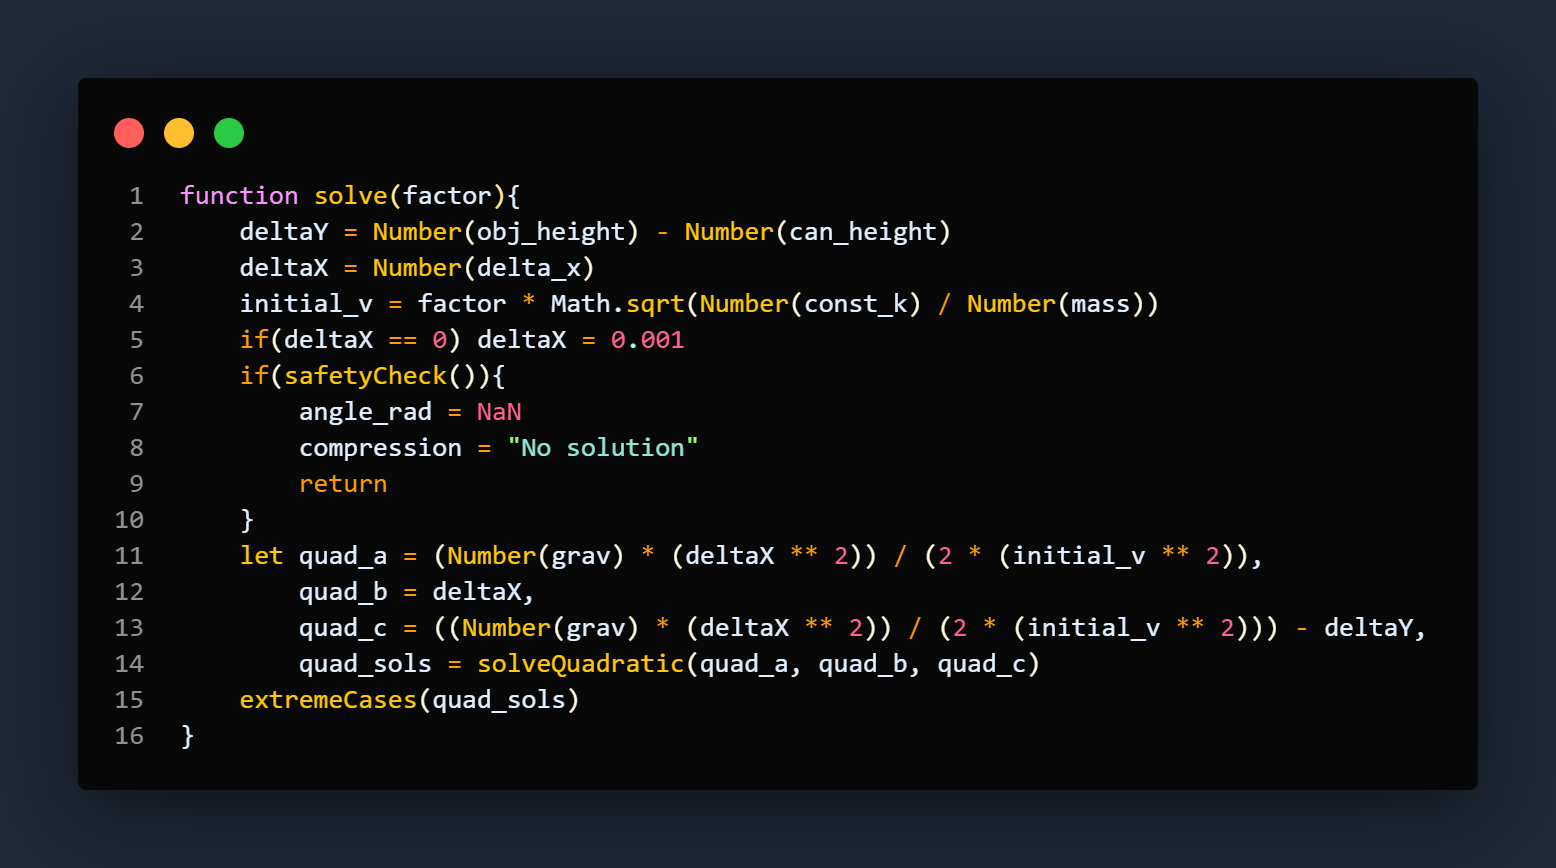
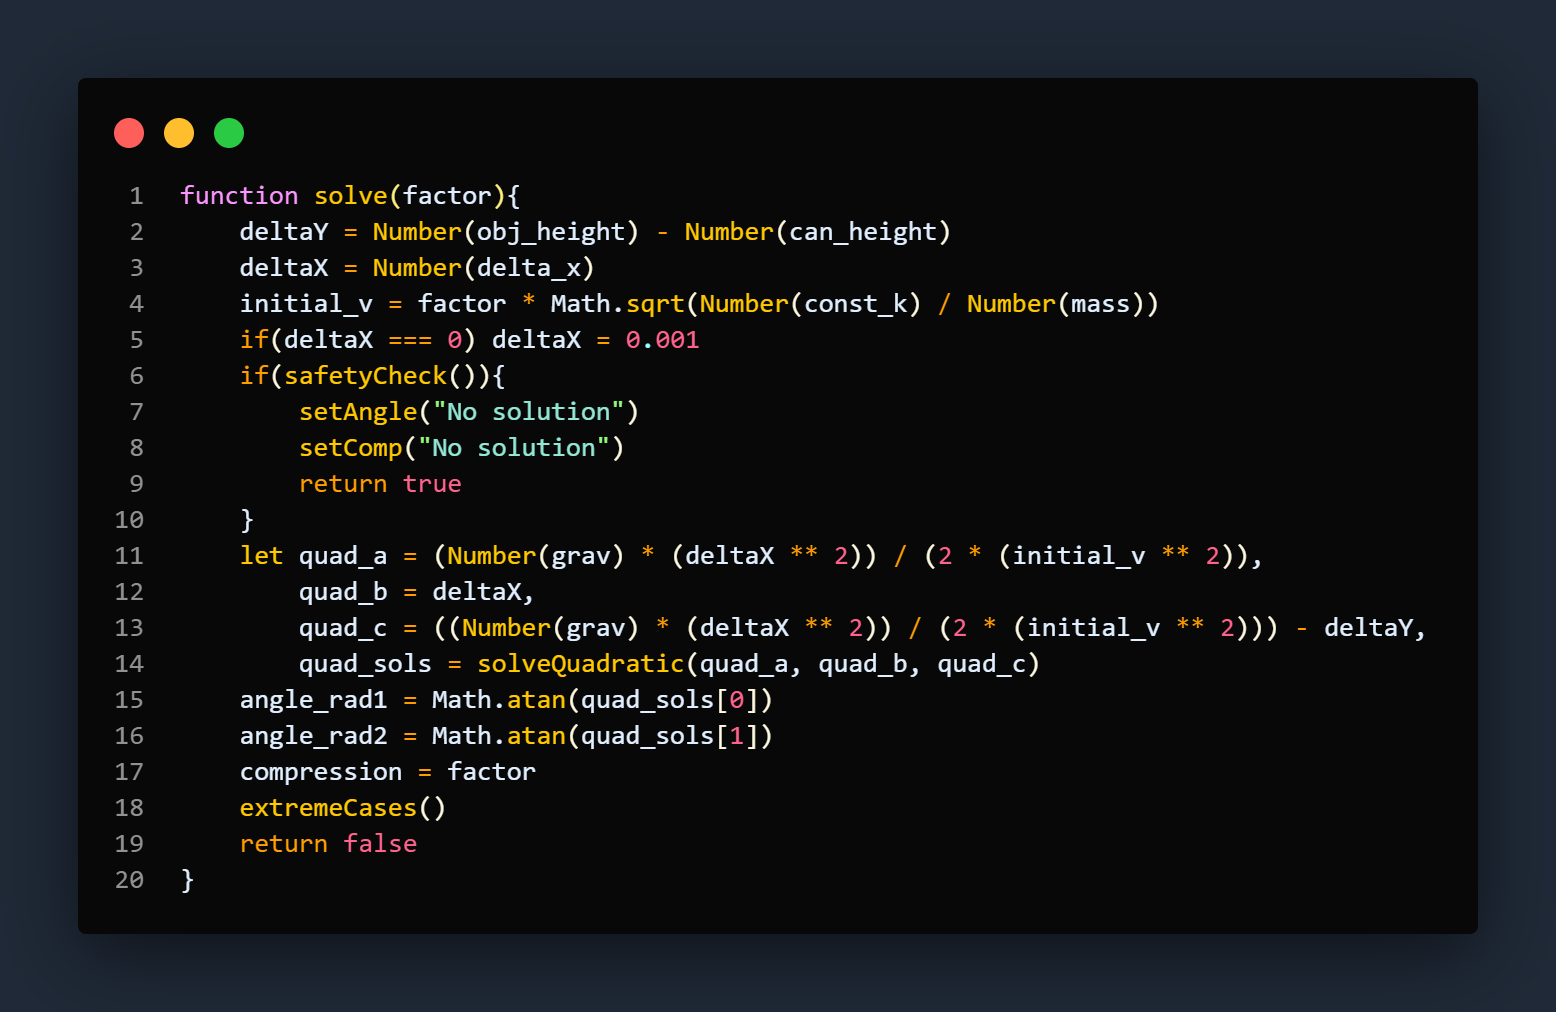
waa

diff --git a/src/pages/Calculator.jsx b/src/pages/Calculator.jsx
@@ -25,7 +25,7 @@ const Calculator = () => {
     const [trajectory, setTrajectory] = useState([])
     const [max_range, setMax_range] = useState([])
     const Form = useRef(null)
-    let deltaY, deltaX, initial_v, angle_rad, compression = "100"
+    let deltaY, deltaX, initial_v, angle_rad0, angle_rad1, angle_rad2, compression = 1
 
     function solveQuadratic(a, b, c){
         let disc = (b ** 2) - (4 * a * c)
@@ -34,7 +34,7 @@ const Calculator = () => {
     }
 
     function calcTrajectory(x, type){
-        if(type === 0) return (x * Math.tan(angle_rad) + (Number(grav) * (x ** 2)) / (2 * (initial_v ** 2) * (Math.cos(angle_rad) ** 2)))
+        if(type === 0) return (x * Math.tan(angle_rad0) + (Number(grav) * (x ** 2)) / (2 * (initial_v ** 2) * (Math.cos(angle_rad0) ** 2)))
         else return (Number(grav) * (x ** 2)) / (2 * (initial_v ** 2)) + ((initial_v ** 2) / (-2 * Number(grav)))
     }
 
@@ -45,33 +45,24 @@ const Calculator = () => {
         return false
     }
 
-    function obstacleCheck(){
-        let traj_y = (Number(obs_x) * Math.tan(angle_rad) + (Number(grav) * (Number(obs_x) ** 2)) / (2 * (initial_v ** 2) * (Math.cos(angle_rad) ** 2))),
-            real_h = Number(obs_y) - Number(can_height),
-            diff = Math.abs(traj_y - real_h)
-        setError(diff.toFixed(2))
-        if(diff >= 0.5) return false
-        setError(diff.toFixed(2) + " *")
-        return true
+    function obstacleDelta(angle){
+        let traj_y = (Number(obs_x) * Math.tan(angle) + (Number(grav) * (Number(obs_x) ** 2)) / (2 * (initial_v ** 2) * (Math.cos(angle) ** 2))),
+            real_h = Number(obs_y) - Number(can_height)
+        return Math.abs(traj_y - real_h)
     }
 
-    function extremeCases(quad_sols){
-        if(quad_sols[0] < 0){
-            angle_rad = Math.atan(quad_sols[1])
-            if(obstacleCheck()){
-                solve(0.9)
-                compression = "90"
-            }
+    function extremeCases(){
+        if(angle_rad1 < 0){
+            if(obstacleDelta(angle_rad2) >= 0.5) angle_rad0 = angle_rad2
+            else solve(compression - 0.05)
+        }
+        else if(angle_rad2 < 0){
+            if(obstacleDelta(angle_rad1) >= 0.5) angle_rad0 = angle_rad1
+            else solve(compression - 0.05)
         }
         else{
-            angle_rad = Math.atan(quad_sols[0])
-            if(obstacleCheck()){
-                if(quad_sols[1] < 0){
-                    solve(0.9)
-                    compression = "90"
-                }
-                else angle_rad = Math.atan(quad_sols[1])
-            }
+            if(obstacleDelta(angle_rad1) >= obstacleDelta(angle_rad2)) angle_rad0 = angle_rad1
+            else angle_rad0 = angle_rad2
         }
     }
 
@@ -79,27 +70,30 @@ const Calculator = () => {
         setTrajectory([])
         setMax_range([])
         let quad_a = Number(grav) / 2,
-            quad_b = initial_v * Math.sin(angle_rad),
+            quad_b = initial_v * Math.sin(angle_rad0),
             quad_c = Number(can_height),
             quad_sol = solveQuadratic(quad_a, quad_b, quad_c)[1],
-            lim_0 = initial_v * Math.cos(angle_rad) * quad_sol,
+            lim_0 = initial_v * Math.cos(angle_rad0) * quad_sol,
             lim_bottom = Math.sqrt(((initial_v ** 2) * ((-2 * Number(can_height) * Number(grav)) + (initial_v ** 2))) / (Number(grav) ** 2)),
-            lim_y = Math.abs(Math.min(0, Math.min(Number(obj_height), Number(can_height))) - Math.max(Number(can_height) + (initial_v ** 2) / (-2 * Number(grav)), Number(obj_height)))
+            lim_y = Math.abs(Math.min(0, Math.min(Number(obj_height), Number(can_height))) - Math.max(Number(can_height) + (initial_v ** 2) / (-2 * Number(grav)), Number(obj_height))),
+            traj_y = (Number(obs_x) * Math.tan(angle_rad0) + (Number(grav) * (Number(obs_x) ** 2)) / (2 * (initial_v ** 2) * (Math.cos(angle_rad0) ** 2))),
+            real_h = Number(obs_y) - Number(can_height)
         for(let i = 0; i <= Math.max(lim_0, Number(delta_x)); i++){
             setTrajectory(trajectory => [...trajectory, calcTrajectory(i, 0)])
-            if(i == Number(delta_x)) setTrajectory(trajectory => [...trajectory, null])
+            if(i === Number(delta_x)) setTrajectory(trajectory => [...trajectory, null])
         }
         setTrajectory(trajectory => [...trajectory, calcTrajectory(Math.max(lim_0, Number(delta_x)), 0)])
         for(let i = 0; i <= Math.max(Math.max(lim_0, lim_y), lim_bottom); i++){
             setMax_range(max_range => [...max_range, calcTrajectory(i, 1)])
         }
-        setInitial_v_x((initial_v * Math.cos(Math.atan(angle_rad))).toFixed(2))
-        setInitial_v_y((initial_v * Math.sin(Math.atan(angle_rad))).toFixed(2))
-        setTime((deltaX / (initial_v * Math.cos(Math.atan(angle_rad)))).toFixed(2))
+        setInitial_v_x((initial_v * Math.cos(Math.atan(angle_rad0))).toFixed(2))
+        setInitial_v_y((initial_v * Math.sin(Math.atan(angle_rad0))).toFixed(2))
+        setTime((deltaX / (initial_v * Math.cos(Math.atan(angle_rad0)))).toFixed(2))
         setMax_x(Math.max(lim_0, lim_bottom))
         setMax_y((initial_v ** 2) / (-2 * Number(grav)))
         setInitial_vs(initial_v.toFixed(2))
         setDelta_y(deltaY)
+        setError(Number(obs_x) > Math.max(lim_0, Number(delta_x)) ? NaN : (traj_y - real_h).toFixed(2))
         setGraph(true)
     }
 
@@ -107,25 +101,29 @@ const Calculator = () => {
         deltaY = Number(obj_height) - Number(can_height)
         deltaX = Number(delta_x)
         initial_v = factor * Math.sqrt(Number(const_k) / Number(mass))
-        if(deltaX == 0) deltaX = 0.001
+        if(deltaX === 0) deltaX = 0.001
         if(safetyCheck()){
-            angle_rad = NaN
-            compression = "No solution"
-            return
+            setAngle("No solution")
+            setComp("No solution")
+            return true
         }
         let quad_a = (Number(grav) * (deltaX ** 2)) / (2 * (initial_v ** 2)),
             quad_b = deltaX,
             quad_c = ((Number(grav) * (deltaX ** 2)) / (2 * (initial_v ** 2))) - deltaY,
             quad_sols = solveQuadratic(quad_a, quad_b, quad_c)
-        extremeCases(quad_sols)
+        angle_rad1 = Math.atan(quad_sols[0])
+        angle_rad2 = Math.atan(quad_sols[1])
+        compression = factor
+        extremeCases()
+        return false
     }
     
     const submissionHandler = (e) => {
         e.preventDefault()
-        solve(1)
+        if(solve(1)) return
         visuals()
-        setAngle((angle_rad * (180 / Math.PI)).toFixed(2) + "°")
-        setComp(compression + "%")
+        setAngle((angle_rad0 * (180 / Math.PI)).toFixed(2) + "°")
+        setComp((compression * 100) + "%")
     }
 
     const clearHandler = () => {
@@ -142,6 +140,7 @@ const Calculator = () => {
         setTime("")
         setInitial_vs("")
         setDelta_y("")
+        setError("")
     }
 
     return(

diff --git a/src/pages/Code.jsx b/src/pages/Code.jsx
@@ -2,6 +2,8 @@ import { useStateContext } from '../contexts/ContextProvider';
 import pic1 from "../assets/subm.png"
 import pic2 from "../assets/solve.png"
 import pic3 from "../assets/quad.png"
+import pic4 from "../assets/safety.png"
+import pic5 from "../assets/traj.png"
 
 const Code = () => {
     const { color, setPage } = useStateContext()
@@ -23,16 +25,25 @@ const Code = () => {
                 <hr className="mb-3" />
                 Es una función de apoyo que aplica la fórmula general cuadrática. Recibe los coeficientes de una ecuación cuadrática como argumentos, y regresa un arreglo con las dos soluciones, o un <span style={{color: color}}>NaN</span> si es que no hay ninguna.
                 <div className="flex justify-center">
-                    <img src={pic3} className="w-3/5" style={{borderColor: color}} />
+                    <img src={pic3} className="w-2/3" style={{borderColor: color}} />
+                </div>
+
+                <p className="text-xl font-bold mb-1" style={{color:color}}>
+                    calcTrajectory
+                </p>
+                <hr className="mb-3" />
+                Calcula la altura de la trayectoria del proyectil dada la distancia en el argumento. Puede utilizarse también para calcular la altura del <span style={{color: color}}>rango máximo</span>.
+                <div className="flex justify-center">
+                    <img src={pic5} className="w-7/8" style={{borderColor: color}} />
                 </div>
 
                 <p className="text-xl font-bold mb-1" style={{color:color}}>
                     sumbissionHandler
                 </p>
                 <hr className="mb-3" />
-                Esta función de tipo <i>handler</i> es llamada directamente tras el envio del formulario, y como el comportamiento por defecto es de refrescar la página, por lo que debemos evitar esto explícitamente. Desde aquí llamamos también a las funciones <i>solve()</i> y <i>visuals()</i>, que manejan los cálculos generales y los datos visuales respectivamente. Una vez que se han completado, actualizamos los datos del <span style={{color: color}}>ángulo</span> (que debe ser convertido de radianes a grados) y la <span style={{color: color}}>compresión</span>.
+                Esta función de tipo <i>handler</i> es llaxda directamente tras el envio del formulario, y como el comportamiento por defecto es de refrescar la página, por lo que debemos evitar esto explícitamente. Desde aquí llamamos también a las funciones <i>solve()</i> y <i>visuals()</i>, que manejan los cálculos generales y los datos visuales respectivamente. Una vez que se han completado, actualizamos los datos del <span style={{color: color}}>ángulo</span> (que debe ser convertido de radianes a grados) y la <span style={{color: color}}>compresión</span>.
                 <div className="flex justify-center">
-                    <img src={pic1} className="w-1/2" style={{borderColor: color}} />
+                    <img src={pic1} className="w-7/12" style={{borderColor: color}} />
                 </div>
 
                 <p className="text-xl font-bold mb-1" style={{color:color}}>
@@ -43,13 +54,18 @@ const Code = () => {
                 <br /><br />
                 Hacemos una revisión con la función de <i>safetyCheck()</i>. Si el objetivo esta fuera de rango, se define que no hay solución y salimos de la función. Finalmente asignamos los coeficientes para la ecuación cuadrática del procedimiento, y pasamos los resultados obtenidos de <i>solveQuadratic()</i> a <i>extremeCases()</i>, que maneja los casos extremos para revisar que no haya problemas con las soluciones. 
                 <div className="flex justify-center">
-                    <img src={pic2} className="w-3/5" style={{borderColor: color}} />
+                    <img src={pic2} className="w-2/3" style={{borderColor: color}} />
                 </div>
+
                 <p className="text-xl font-bold mb-1" style={{color:color}}>
                     safetyCheck
                 </p>
                 <hr className="mb-3" />
                 Verifica que las coordenadas del objetivo se encuentren dentro del <span style={{color: color}}>rango máximo</span> con una tolerancia de 0.001 metros
+                <div className="flex justify-center">
+                    <img src={pic4} className="w-5/6" style={{borderColor: color}} />
+                </div>
+
             </div>
         </div>
     )

diff --git a/src/components/Sidebar.jsx b/src/components/Sidebar.jsx
@@ -25,11 +25,11 @@ export const Sidebar = () => {
                 <button className="w-full text-left" onClick={() => setPage("math")}>
                     <p className="m-3 ml-2 pl-4 p-3 rounded-lg text-white hover:text-gray-700 hover:bg-light-gray" style={{background: (page === "math" ? color : ''), color: (page === "math" ? "white" : "")}}>Math</p>
                 </button>
-                <button className="w-full text-left" onClick={() => setPage("about")}>
-                    <p className="m-3 ml-2 -my-1 pl-4 p-3 rounded-lg text-white hover:text-gray-700 hover:bg-light-gray" style={{background: (page === "about" ? color : ''), color: (page === "about" ? "white" : "")}}>About</p>
-                </button>
                 <button className="w-full text-left" onClick={() => setPage("code")}>
-                    <p className="m-3 ml-2 pl-4 p-3 rounded-lg text-white hover:text-gray-700 hover:bg-light-gray" style={{background: (page === "code" ? color : ''), color: (page === "code" ? "white" : "")}}>Code</p>
+                    <p className="m-3 ml-2 -my-1 pl-4 p-3 rounded-lg text-white hover:text-gray-700 hover:bg-light-gray" style={{background: (page === "code" ? color : ''), color: (page === "code" ? "white" : "")}}>Code</p>
+                </button>
+                <button className="w-full text-left" onClick={() => setPage("about")}>
+                    <p className="m-3 ml-2 pl-4 p-3 rounded-lg text-white hover:text-gray-700 hover:bg-light-gray" style={{background: (page === "about" ? color : ''), color: (page === "about" ? "white" : "")}}>About</p>
                 </button>
             </div>
         </div>
